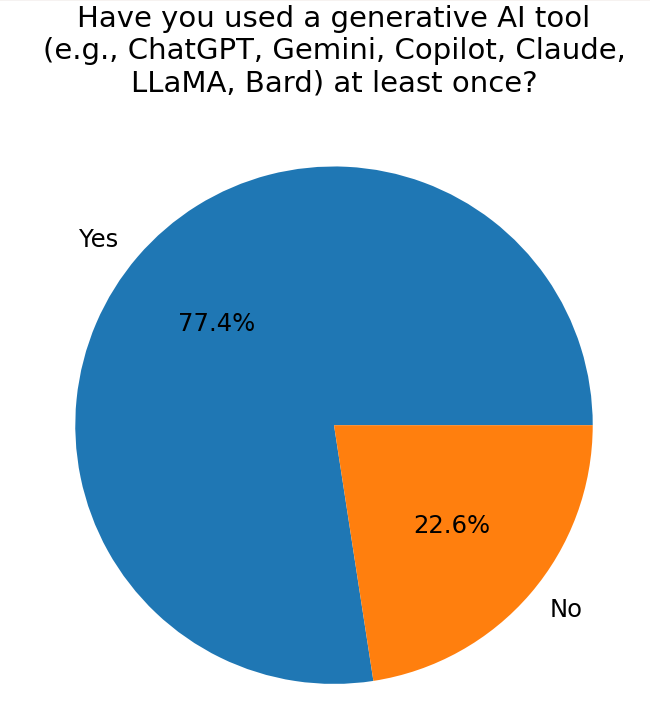
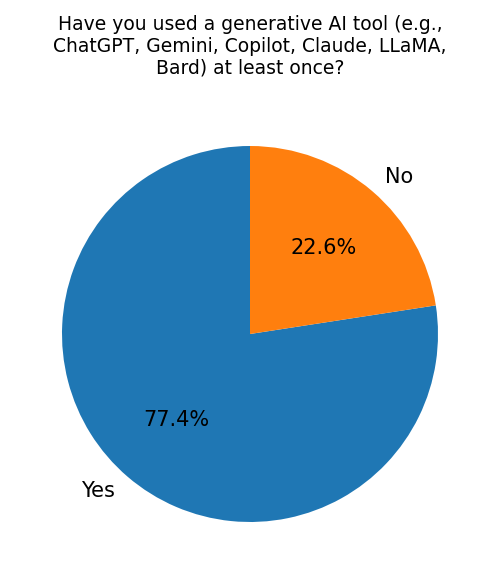
replace diagrams with same sized ones

diff --git a/diagrams/sqlliteDiagrams.py b/diagrams/sqlliteDiagrams.py
@@ -4,53 +4,83 @@ from collections import Counter
 import textwrap
 
 # ---- CONFIG ----
-DB_FILE = "database.db"
-COLUMN_NAME = "used_llm"   # column you want to analyze
+DB_FILE = "../survey/database.db"
+FIGSIZE = (5, 4)  # Both charts will use this exact size
+DPI = 150
+
+CHARTS = [
+    {
+        "column": "used_llm",
+        "title": "Have you used a generative AI tool (e.g., ChatGPT, Gemini, Copilot, Claude, LLaMA, Bard) at least once?",
+        "output": "used_llm_distribution.png",
+    },
+    {
+        "column": "know_llm",
+        "title": "Are you familiar with generative AI tools such as ChatGPT, Gemini, Copilot, Claude, LLaMA, and Bard?",
+        "output": "know_llm_distribution.png",
+    },
+]
 
 # ---- CONNECT TO DB ----
 conn = sqlite3.connect(DB_FILE)
 cursor = conn.cursor()
 
-# ---- GET TABLES ----
 cursor.execute("SELECT name FROM sqlite_master WHERE type='table';")
 tables = [t[0] for t in cursor.fetchall()]
-
 print("Tables found:", tables)
 
-results = {}
+def get_counts(cursor, tables, column):
+    """Aggregate counts for a column across all tables that contain it."""
+    total = Counter()
+    for table in tables:
+        cursor.execute(f"PRAGMA table_info({table});")
+        columns = [col[1] for col in cursor.fetchall()]
+        if column in columns:
+            print(f"  Found '{column}' in table '{table}'")
+            cursor.execute(
+                f"SELECT {column} FROM {table} WHERE {column} IS NOT NULL AND {column} != 'NULL';"
+            )
+            values = [row[0] for row in cursor.fetchall()]
+            total.update(Counter(values))
+    return total
 
-# ---- SCAN TABLES FOR COLUMN ----
-for table in tables:
-    cursor.execute(f"PRAGMA table_info({table});")
-    columns = [col[1] for col in cursor.fetchall()]
-    
-    if COLUMN_NAME in columns:
-        print(f"Found '{COLUMN_NAME}' in table '{table}'")
+# ---- GENERATE CHARTS ----
+for chart in CHARTS:
+    print(f"\nProcessing column: {chart['column']}")
+    counter = get_counts(cursor, tables, chart["column"])
 
-        cursor.execute(f"SELECT {COLUMN_NAME} FROM {table} where {COLUMN_NAME} IS NOT 'NULL';")
-        values = [row[0] for row in cursor.fetchall()]
+    if not counter:
+        print(f"  No data found for '{chart['column']}', skipping.")
+        continue
 
-        counter = Counter(values)
-        results[table] = counter
+    print(f"  Raw values in DB: {dict(counter)}")
 
-# ---- CLOSE DB ----
+    # Map whatever the DB stores to Yes/No display labels
+    def to_label(val):
+        if str(val).strip().lower() in ("1", "true", "yes"):
+            return "Yes"
+        if str(val).strip().lower() in ("0", "false", "no"):
+            return "No"
+        return str(val)
+
+    normalized = Counter()
+    for val, count in counter.items():
+        normalized[to_label(val)] += count
+
+    labels_order = ["Yes", "No"]
+    counts = [normalized.get(label, 0) for label in labels_order]
+    # Drop labels with zero count
+    pairs = [(l, c) for l, c in zip(labels_order, counts) if c > 0]
+    labels, counts = zip(*pairs) if pairs else ([], [])
+
+    fig, ax = plt.subplots(figsize=FIGSIZE)
+    ax.pie(counts, labels=labels, autopct="%1.1f%%", startangle=90)
+    ax.set_title(textwrap.fill(chart["title"], width=45), fontsize=9, pad=12)
+
+    plt.tight_layout()
+    plt.savefig(chart["output"], dpi=DPI, bbox_inches="tight")
+    plt.close(fig)
+    print(f"  Saved: {chart['output']}")
+
 conn.close()
-
-# ---- PLOT RESULTS ----
-for table, counter in results.items():
-    labels = list(counter.keys())
-    counts = list(counter.values())
-    labels = [str(x) if x is not None else "NULL" for x in labels]
-
-    plt.figure()
-    plt.pie(counts, labels=["Yes", "No"], autopct='%1.1f%%')
-    title = f"Have you used a generative AI tool (e.g., ChatGPT, Gemini, Copilot, Claude, LLaMA, Bard) at least once?"
-    plt.title(textwrap.fill(title, width=40), wrap=True)
-
-    # Save diagram
-    filename = f"{table}_{COLUMN_NAME}_distribution.png"
-    plt.savefig(filename)
-    print(f"Saved diagram: {filename}")
-
-    # Optional: show plot
-    plt.show()
+print("\nDone! Both images are saved and ready to tile side by side.")
